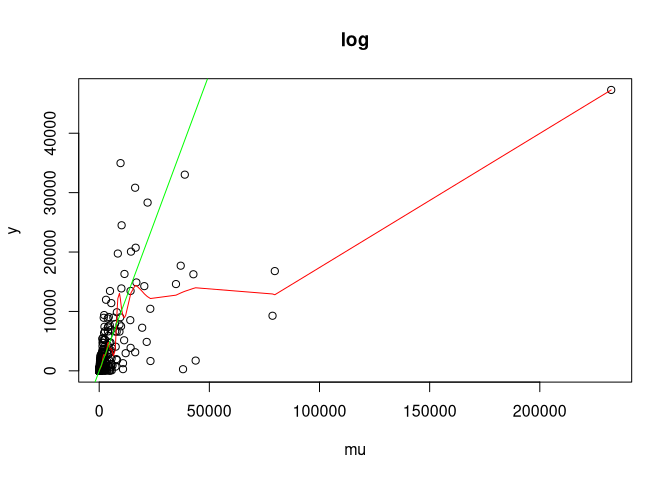
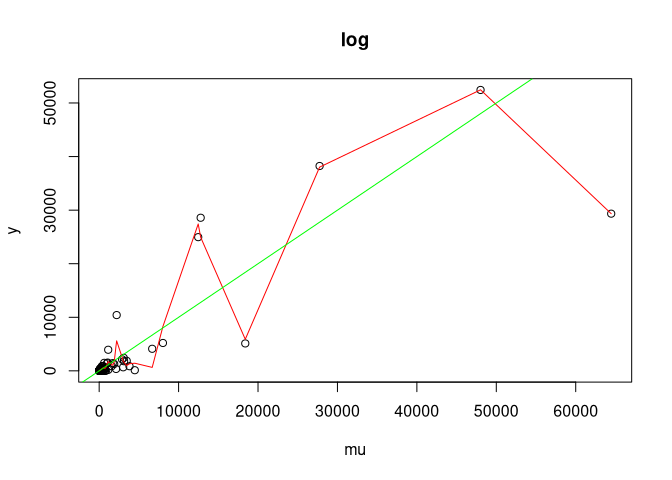
.

diff --git a/_posts/2023-07-12-exponential-glm-coverage.md b/_posts/2023-07-12-exponential-glm-coverage.md
@@ -46,8 +46,8 @@ expectation and red line is a smoothing spline) 2. Simulate coverage of
 true parameter for `x` (should be 95%)
 
 ``` r
-n <- 1000 # sample size
-nsim <- 1000 # number of simulations to test the confidence interval
+n <- 100 # sample size
+nsim <- 500 # number of simulations to test the confidence interval
 set.seed(123)
 for (i in seq_along(inv_links)){
   D <- get_data(inv_links[[i]])
@@ -56,8 +56,6 @@ for (i in seq_along(inv_links)){
   # Test with SmoothingSplines if indeed: E(y|mu) = mu
   with(D, lines(smooth.spline(mu, y), col='red'))
   abline(0,1, col='green')
-
-  f <- glm(y ~ x + z, data=D, family=Gamma(link=names(inv_links)[i]), mustart=mu)
 
   # see if the conf-interval for beta_x is valid. i.e.:
   #    repeat it nsim times and see if 1 is in our confidence interval
@@ -79,18 +77,18 @@ for (i in seq_along(inv_links)){
 
 ![](../quarto/exponential-glm-coverage/exponential-glm-coverage_files/figure-commonmark/unnamed-chunk-2-1.png)
 
-
-    Coverage for identity: 0.939000
+    #> 
+    #> Coverage for identity: 0.930380
 
 ![](../quarto/exponential-glm-coverage/exponential-glm-coverage_files/figure-commonmark/unnamed-chunk-2-2.png)
 
-
-    Coverage for inverse: 0.942000
+    #> 
+    #> Coverage for inverse: 0.947589
 
 ![](../quarto/exponential-glm-coverage/exponential-glm-coverage_files/figure-commonmark/unnamed-chunk-2-3.png)
 
-
-    Coverage for log: 0.949000
+    #> 
+    #> Coverage for log: 0.942000
 
 ## Results
 
